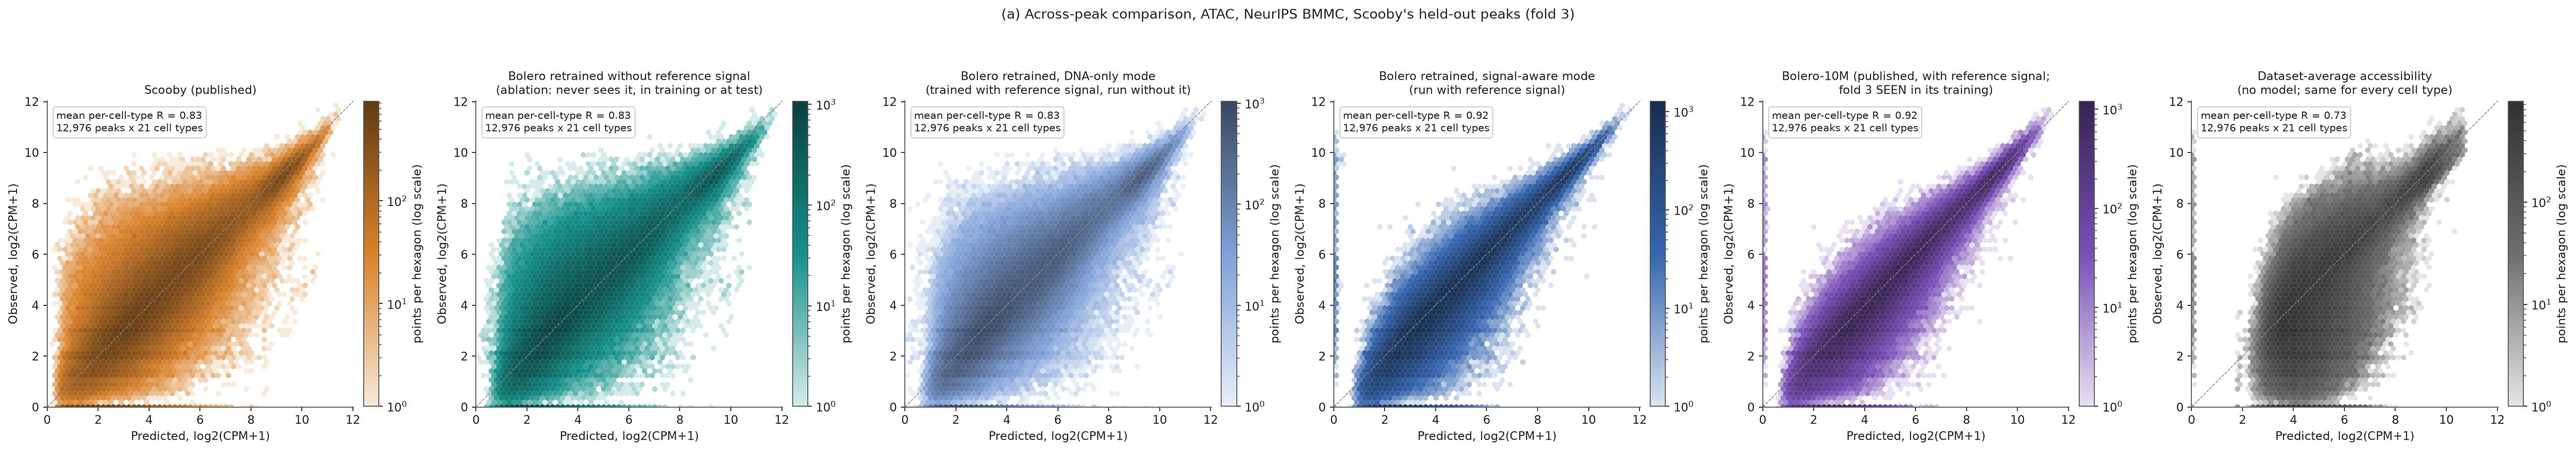
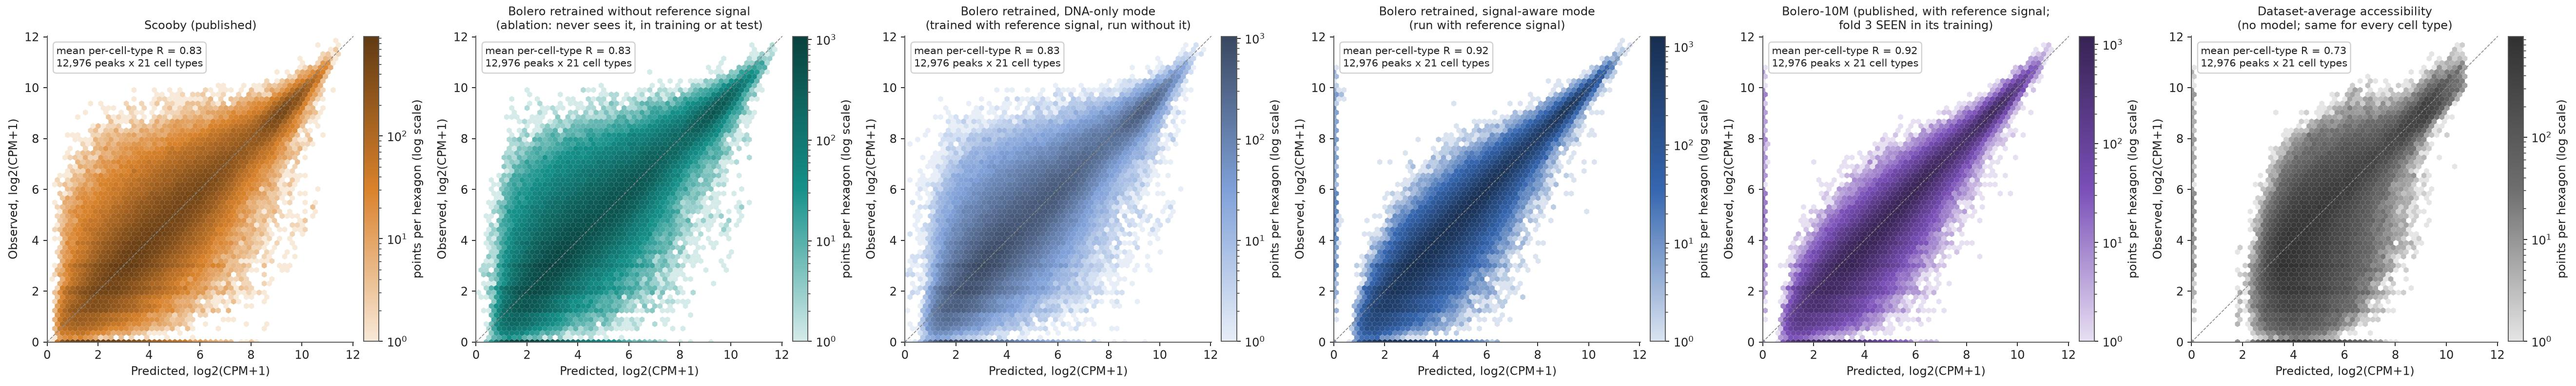
2026-016: drop figure numbers, crop ATAC super-titles, new hero image
Captions now carry only their description. The two ATAC comparison
figures are cropped to match the RNA ones. The hero image is the ATAC
deviation-r comparison.

diff --git a/content/blogs/2026-016/index.md b/content/blogs/2026-016/index.md
@@ -1,7 +1,7 @@
 ---
 post_id: "2026-016"
 title: "Benchmarking Bolero"
-image: "17_activity_atac_ablation.png"
+image: "03_atac_deviation.png"
 math: false
 
 authors: ["Yue Wu", "Alan Murphy", "Peter K. Koo"]
@@ -84,7 +84,7 @@ Bolero proposes using the AP-1 score to set the trans environment.
 
 Below is adapted from Bolero's Figure 1c, d. Bolero did not compare with Scooby on RNA.
 
-![Figure 1](01_bolero_fig1cd.png "width=900 Figure 1: Adapted from Bolero's Figure 1c, d. Bolero's comparison against its own Scooby-style baseline on ATAC.")
+![Adapted from Bolero's Figure 1c, d. Bolero's comparison against its own Scooby-style baseline on ATAC.](01_bolero_fig1cd.png "width=900 Adapted from Bolero's Figure 1c, d. Bolero's comparison against its own Scooby-style baseline on ATAC.")
 
 Bolero's Scooby baseline is not the published Scooby. The Methods say only that "a hypernetwork head reproduces the published Scooby model". In Bolero's code, the "scooby" preset puts a Scooby-style head on Bolero's framework, with plain rank-8 LoRA instead of Bolero's cell-state-conditional LoRA.
 
@@ -119,13 +119,13 @@ Panel order in the figures below:
 
 Cross-peak comparison:
 
-![Figure 2](02_atac_crosspeak.png "width=900 Figure 2: Cross-peak Pearson r on fold 3 of NeurIPS BMMC for Scooby, the retrained Bolero variants, Bolero-10M and the dataset-average baseline.")
+![Cross-peak Pearson r on fold 3 of NeurIPS BMMC for Scooby, the retrained Bolero variants, Bolero-10M and the dataset-average baseline.](02_atac_crosspeak.png "width=900 Cross-peak Pearson r on fold 3 of NeurIPS BMMC for Scooby, the retrained Bolero variants, Bolero-10M and the dataset-average baseline.")
 
 Note that the published Bolero-10M model, which saw fold 3 of this dataset during training, has nearly the same performance as the retrained Bolero model, which did not see fold 3. Thus, the retrained Bolero model's performance is not underestimated here.
 
 Deviation *r* (subtract peak mean and cell type mean):
 
-![Figure 3](03_atac_deviation.png "width=900 Figure 3: Deviation r on fold 3, after subtracting the peak mean and the cell-type mean, so that only cell-type-specific variation is scored.")
+![Deviation r on fold 3, after subtracting the peak mean and the cell-type mean, so that only cell-type-specific variation is scored.](03_atac_deviation.png "width=900 Deviation r on fold 3, after subtracting the peak mean and the cell-type mean, so that only cell-type-specific variation is scored.")
 
 Bolero clearly outperforms Scooby only when the reference signal is added at inference. With or without the reference signal during training, Bolero has roughly the same performance as Scooby.
 
@@ -137,13 +137,13 @@ To match Bolero's whole-gene count, we also converted Scooby's output to a whole
 
 Cross-gene *r*:
 
-![Figure 4](04_rna_crossgene.png "width=900 Figure 4: Cross-gene Pearson r on fold 3 for whole-gene 10x counts.")
+![Cross-gene Pearson r on fold 3 for whole-gene 10x counts.](04_rna_crossgene.png "width=900 Cross-gene Pearson r on fold 3 for whole-gene 10x counts.")
 
 The dataset-average baseline scores highest here because across-gene *r* mostly reflects which genes are highly expressed overall, not cell-type differences.
 
 Deviation *r* (subtract gene mean and cell type mean):
 
-![Figure 5](05_rna_deviation.png "width=900 Figure 5: Deviation r on fold 3 for RNA, after subtracting the gene mean and the cell-type mean.")
+![Deviation r on fold 3 for RNA, after subtracting the gene mean and the cell-type mean.](05_rna_deviation.png "width=900 Deviation r on fold 3 for RNA, after subtracting the gene mean and the cell-type mean.")
 
 A similar conclusion is observed: without the reference signal at inference, the retrained Bolero's DNA-only performance is approximately the same as Scooby's. When the reference signal is added, Bolero outperforms Scooby.
 
@@ -157,7 +157,7 @@ Figure 2g–j of Bolero examines the unseen cell types of unseen cell states. Bo
 
 The weights of the 18 individually trained models in Figure 2g–j have not been published, and the test split arrangement is not described either. Thus, we cannot conduct additional benchmarking experiments in the same setting.
 
-![Figure 6](06_bolero_fig2gj.png "width=900 Figure 6: Adapted from Bolero's Figure 2g–j, the held-out cell-type evaluation.")
+![Adapted from Bolero's Figure 2g–j, the held-out cell-type evaluation.](06_bolero_fig2gj.png "width=900 Adapted from Bolero's Figure 2g–j, the held-out cell-type evaluation.")
 
 In Figure 4, Bolero is evaluated on five datasets: fear engram (Fig. 4b), novel environment, stress, mouse visual experience and human visual experience.
 
@@ -177,11 +177,11 @@ We replicated Figure 4b from Bolero on the fear engram dataset.
 
 Bolero Fig. 4a, b:
 
-![Figure 7](07_bolero_fig4ab.png "width=900 Figure 7: Adapted from Bolero's Figure 4a, b, the fear engram prediction.")
+![Adapted from Bolero's Figure 4a, b, the fear engram prediction.](07_bolero_fig4ab.png "width=900 Adapted from Bolero's Figure 4a, b, the fear engram prediction.")
 
 Our replication:
 
-![Figure 8](08_fear_fig4b_replication.png "width=900 Figure 8: Our replication of Bolero's Figure 4b on the fear engram dataset using the released code, weights and data.")
+![Our replication of Bolero's Figure 4b on the fear engram dataset using the released code, weights and data.](08_fear_fig4b_replication.png "width=900 Our replication of Bolero's Figure 4b on the fear engram dataset using the released code, weights and data.")
 
 ### On AP-1
 
@@ -191,11 +191,11 @@ We used the input (24 h Trap− DG) to predict the perturbed group (24 h Fos-Tra
 
 No reference signal. This is the preprint's own setting, as all Fig. 4 predictions were made in DNA-only mode. Here Bolero does not beat copying the control.
 
-![Figure 9](09_fear_ap1_noref.png "width=900 Figure 9: Fear engram prediction without the reference signal (the preprint's DNA-only setting), compared with copying the control pseudobulk.")
+![Fear engram prediction without the reference signal (the preprint's DNA-only setting), compared with copying the control pseudobulk.](09_fear_ap1_noref.png "width=900 Fear engram prediction without the reference signal (the preprint's DNA-only setting), compared with copying the control pseudobulk.")
 
 With the reference signal, Bolero ties or slightly beats copying.
 
-![Figure 10](10_fear_ap1_withref.png "width=900 Figure 10: Fear engram prediction with the reference signal, compared with copying the control pseudobulk.")
+![Fear engram prediction with the reference signal, compared with copying the control pseudobulk.](10_fear_ap1_withref.png "width=900 Fear engram prediction with the reference signal, compared with copying the control pseudobulk.")
 
 ### On cell representation and the encoder
 
@@ -205,25 +205,25 @@ Each dot is a metacell, and each panel highlights one cell type, with blue for i
 
 Cell embedding:
 
-![Figure 11](11_fear_cell_embedding.png "width=900 Figure 11: MultiVI cell embedding. Blue: 24 h Trap− metacells of the highlighted cell type. Red: its Fos-Trap+ metacells.")
+![MultiVI cell embedding. Blue: 24 h Trap− metacells of the highlighted cell type. Red: its Fos-Trap+ metacells.](11_fear_cell_embedding.png "width=900 MultiVI cell embedding. Blue: 24 h Trap− metacells of the highlighted cell type. Red: its Fos-Trap+ metacells.")
 
 *e* of the embedding:
 
-![Figure 12](12_fear_e_embedding.png "width=900 Figure 12: Encoder output e of the same metacells.")
+![Encoder output e of the same metacells.](12_fear_e_embedding.png "width=900 Encoder output e of the same metacells.")
 
 *e* with the AP-1 dial:
 
-![Figure 13](13_fear_e_ap1_dial.png "width=900 Figure 13: Encoder output e of the Trap− metacells with the AP-1 score raised to +8.")
+![Encoder output e of the Trap− metacells with the AP-1 score raised to +8.](13_fear_e_ap1_dial.png "width=900 Encoder output e of the Trap− metacells with the AP-1 score raised to +8.")
 
 AP-1 only changes *e*. It moves every metacell by exactly the same vector. The moving direction is almost orthogonal to PC1 and PC2.
 
 Below is the distance matrix between cell-type centroids. Rows of panels: MultiVI embedding, *e*, and *e* with the AP-1 dial. First column: distances between cell types within 24 h Trap−. Second column: Fos-Trap+ (rows) vs 24 h Trap− (columns); the boxed diagonal is how far each cell type moved. Third column: distances between cell types within Fos-Trap+.
 
-![Figure 14](14_fear_dist_matrix.png "width=900 Figure 14: Distances between cell-type centroids in the MultiVI embedding, in e, and in e with the AP-1 dial, within and between the Trap− and Fos-Trap+ groups.")
+![Distances between cell-type centroids in the MultiVI embedding, in e, and in e with the AP-1 dial, within and between the Trap− and Fos-Trap+ groups.](14_fear_dist_matrix.png "width=900 Distances between cell-type centroids in the MultiVI embedding, in e, and in e with the AP-1 dial, within and between the Trap− and Fos-Trap+ groups.")
 
 The bar graph of normalized distances sums this up. Stimulation moves a cell type about half as far as its average distance to other cell types.
 
-![Figure 15](15_fear_dist_bars.png "width=600 Figure 15: Normalized distance moved by each cell type under stimulation, relative to its average distance to other cell types.")
+![Normalized distance moved by each cell type under stimulation, relative to its average distance to other cell types.](15_fear_dist_bars.png "width=600 Normalized distance moved by each cell type under stimulation, relative to its average distance to other cell types.")
 
 ## Unseen cell state, seen DNA
 
@@ -245,7 +245,7 @@ We left out EE and Stress. After this filtering, their stimulation effect does n
 
 The same pattern from before is also here: stimulation moves a cell type about half as far as its average distance to other cell types.
 
-![Figure 16](16_activity_dist_bars.png "width=600 Figure 16: Normalized distance moved by each cell type under stimulation in the KA, Fear and MS datasets.")
+![Normalized distance moved by each cell type under stimulation in the KA, Fear and MS datasets.](16_activity_dist_bars.png "width=600 Normalized distance moved by each cell type under stimulation in the KA, Fear and MS datasets.")
 
 We ran ablations on them. Unlike Fig. 4, these use training-fold peaks, so the DNA was seen in training; only the cell state is new.
 
@@ -263,7 +263,7 @@ The grey bar copies the matched control profile without any model, so it is the 
 
 For ATAC:
 
-![Figure 17](17_activity_atac_ablation.png "width=900 Figure 17: ATAC ablations on the KA, Fear and MS datasets. Grey: copy-control baseline. Red dashed line: ceiling. Light bars: without the reference signal. Dark bars: with it.")
+![ATAC ablations on the KA, Fear and MS datasets. Grey: copy-control baseline. Red dashed line: ceiling. Light bars: without the reference signal. Dark bars: with it.](17_activity_atac_ablation.png "width=900 ATAC ablations on the KA, Fear and MS datasets. Grey: copy-control baseline. Red dashed line: ceiling. Light bars: without the reference signal. Dark bars: with it.")
 
 AP-1 adds approximately nothing. Measured, shuffled and random AP-1 give the same *r* (0.80, 0.79, 0.78). Bolero-10M, which has no AP-1 input, also gives 0.80.
 
@@ -271,7 +271,7 @@ The reference signal helps in every setting. Only the stimulated embedding plus 
 
 For RNA, Bolero does not beat the copy-control baseline.
 
-![Figure 18](18_activity_rna_ablation.png "width=900 Figure 18: RNA ablations on the KA, Fear and MS datasets, with the same layout as Figure 17.")
+![RNA ablations on the KA, Fear and MS datasets, with the same layout as the ATAC figure above.](18_activity_rna_ablation.png "width=900 RNA ablations on the KA, Fear and MS datasets, with the same layout as the ATAC figure above.")
 
 Gene expression changes little after stimulation, so the control profile is already very close. The reference signal helps. The stimulated embedding helps a little (+0.01 without the reference signal, +0.02 with it). Again AP-1 adds approximately nothing, as measured, shuffled and random AP-1 all give 0.85.
 
